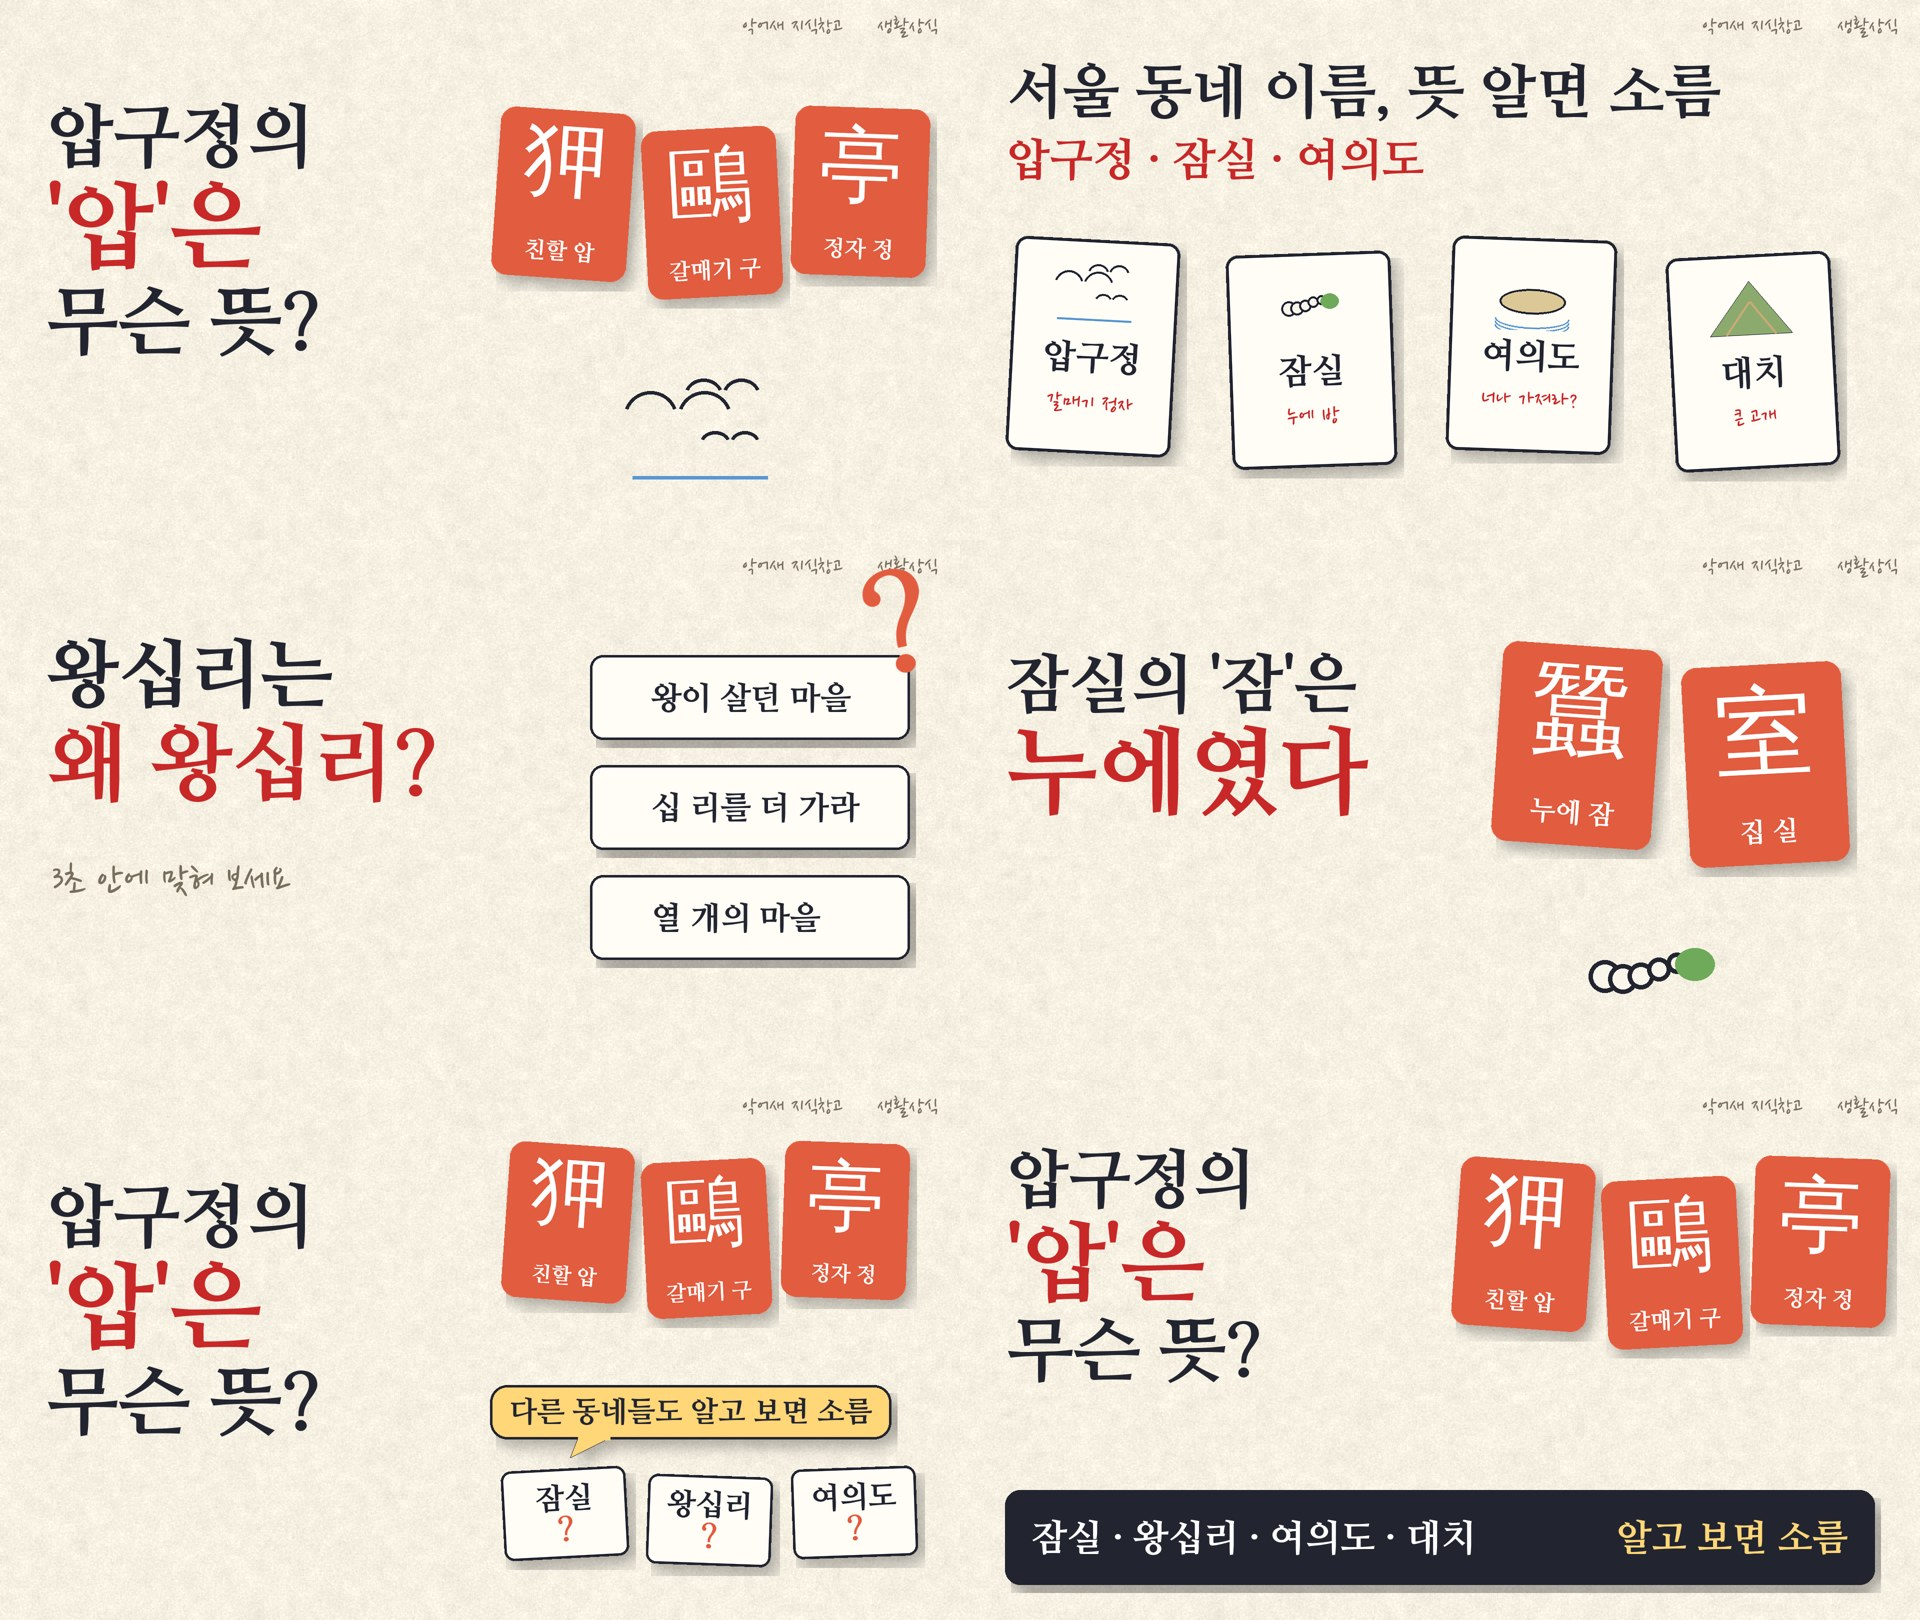
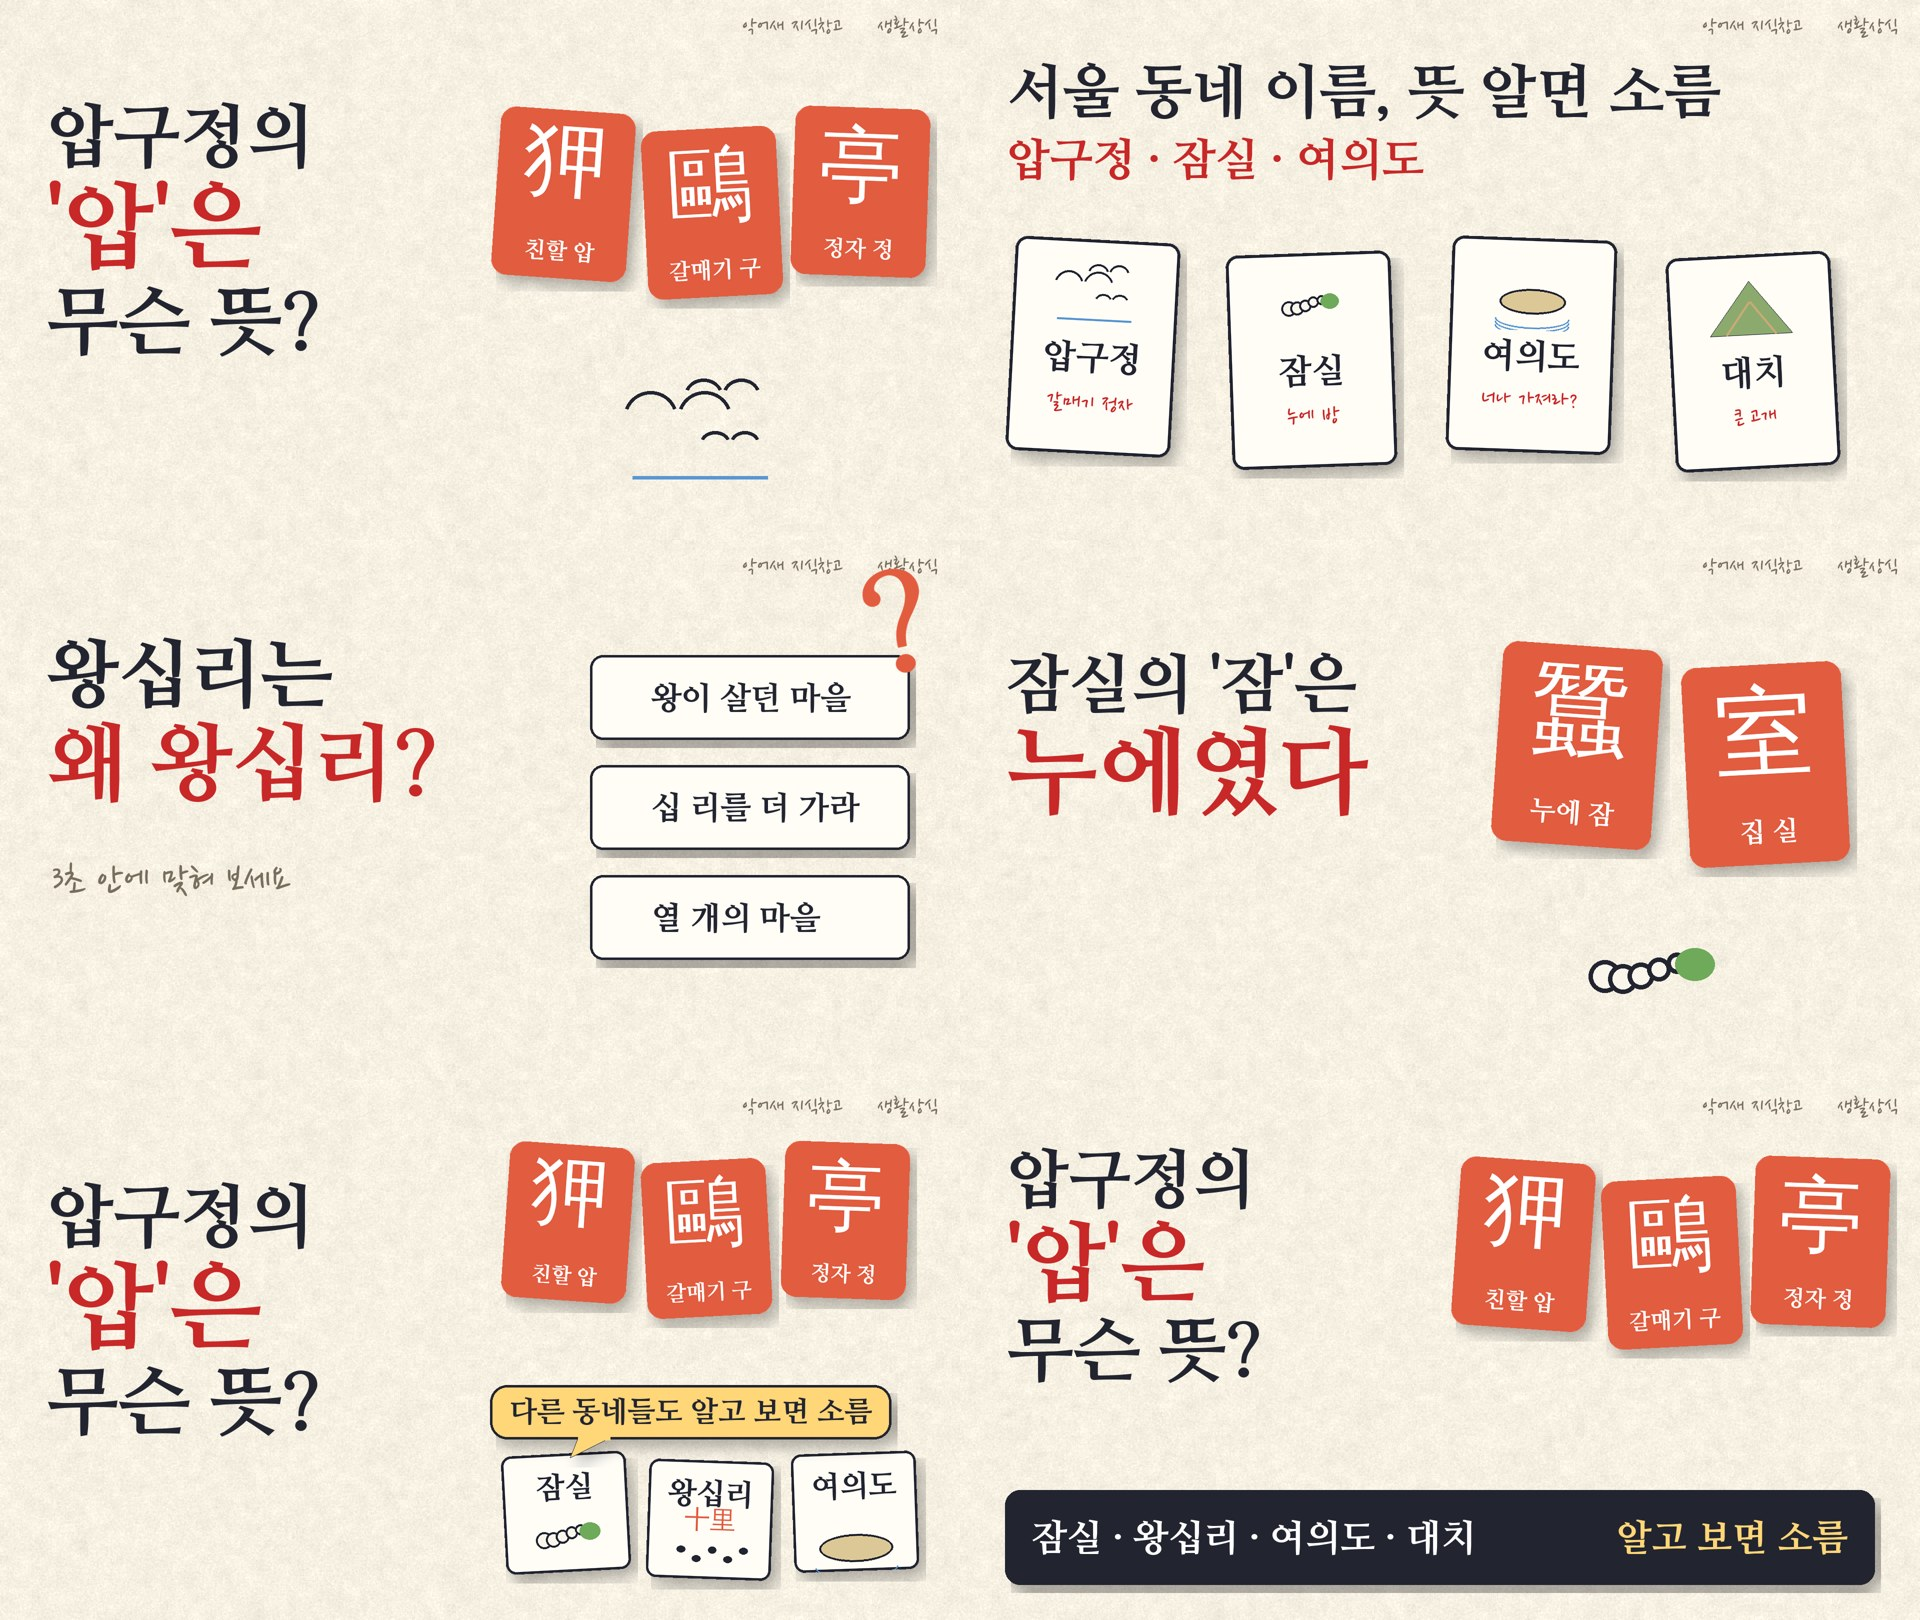
sci06 썸네일 T05 최종: 이름표 그림 힌트 크게
Claude-Session: https://claude.ai/code/session_01XzgYRsYwxnJKVwoBmLGtiR

Changed region(s): [[0.25, 0.8951, 0.5, 0.9877]]

diff --git a/youtube/tools/thumb_names.py b/youtube/tools/thumb_names.py
@@ -109,13 +109,13 @@ def t04():   # 잠실 = 누에 방 + 한자 2장
 
 
 def mini(name, s=230, ic=None):
-    c = Image.new("RGBA", (s, int(s * 0.72)), (0, 0, 0, 0))
+    c = Image.new("RGBA", (s, int(s * 0.95)), (0, 0, 0, 0))
     ImageDraw.Draw(c).rounded_rectangle((0, 0, s - 1, c.height - 1), 20, fill=(255, 253, 246, 255), outline=INK + (255,), width=5)
     n = E._ink(name, MJ, int(s * 0.24), INK)
     c.alpha_composite(n, ((s - n.width) // 2, int(c.height * 0.14)))
     if ic:   # 11/26 사용자: '?' 대신 그림 힌트
-        g = icon(ic, int(c.height * 0.5), INK, ORG, 0.3)
-        c.alpha_composite(g, ((s - g.width) // 2, int(c.height * 0.46)))
+        g = icon(ic, int(c.height * 0.78), INK, ORG, 0.3)
+        c.alpha_composite(g, ((s - g.width) // 2, int(c.height * 0.3)))
     else:
         q = E._ink("?", MJ, int(s * 0.26), ORG)
         c.alpha_composite(q, ((s - q.width) // 2, int(c.height * 0.5)))
@@ -140,7 +140,7 @@ def t05():   # T01 + 다른 동네도(말풍선 + 미니 이름표 3장)
         shadow(f, hanja_card(h, ko, 250), (1000 + i * 280, 120 + (i % 2) * 34), rot=(-4, 3, -2)[i])
     headline(f, [("압구정의", 140, INK), ("'압'은", 190, RED), ("무슨 뜻?", 150, INK)], 90, 200)
     for i, (n, ic) in enumerate((("잠실", "silkworm"), ("왕십리", "walk"), ("여의도", "island"))):
-        shadow(f, mini(n, 250), (1000 + i * 290, 770 + (i % 2) * 16), rot=(3, -2, 2)[i])
+        shadow(f, mini(n, 250, ic), (1000 + i * 290, 740 + (i % 2) * 16), rot=(3, -2, 2)[i])
     shadow(f, bubble("다른 동네들도 알고 보면 소름", 58), (980, 610))
     return f
 
